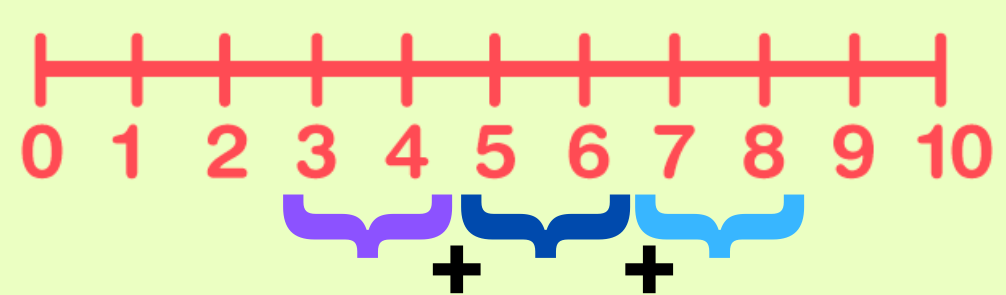
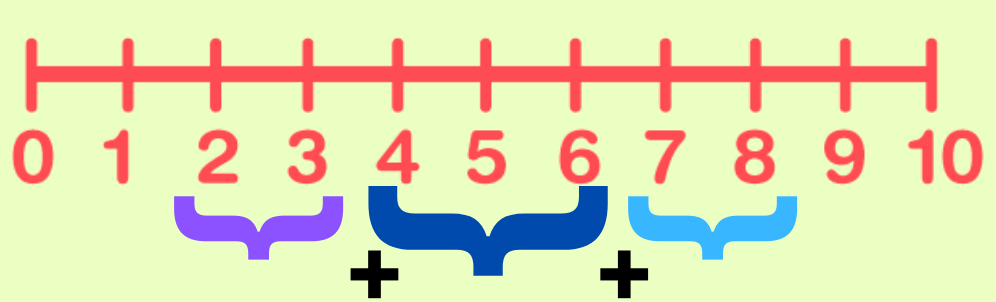
experiments/results added

diff --git a/_posts/2023-02-07-taking_notes_on_the_fly.md b/_posts/2023-02-07-taking_notes_on_the_fly.md
@@ -58,6 +58,10 @@ _styles: >
 ---
 
 ## Introduction
+{% include figure.html path="assets/img/2023-02-07-taking_notes_on_the_fly/example.png" class="img-fluid" %}
+<div class="caption">
+   Figure 1 from the paper, which describes an example situation in which taking notes could be useful. Here COVID is a rare word. Therefore, the model is struggling with the completion task on the left because it has not possibly seen many sentences with the word COVID in it. Thus, we take notes of the contextual information of it as we see examples on it in the training set and we quickly learn to associate it with which words! 
+</div>
 
 Transformers, which were invented by Google in 2017 <d-cite key="vaswani2017attention"></d-cite>, have become the go-to architecture for various tasks in many domains, such as natural language processing and computer vision <d-cite key="dosovitskiy2020image" ></d-cite> <d-cite key="devlin2018bert" ></d-cite> <d-cite key="radford2018improving" ></d-cite> <d-cite key="brown2020language" ></d-cite>.   The success of transformers are mainly because they have two amazing properties: 
 
@@ -128,7 +132,7 @@ $$Note(w,x)=\dfrac{1}{2k+t-s}\sum_{j=s-k}^{t+k}c_j$$.
 
 {% include figure.html path="assets/img/2023-02-07-taking_notes_on_the_fly/numberline.png" class="img-fluid" %}
 <div class="caption">
-    This figure demonstrates contextual embedding vectors at which locations will be selected and summed with an example. This line represents the indices of a sequence of length 11. Let us assume that the rare word is contained within tokens 5 and 6 and k=2, which makes the window size 2k=4. Thus, we sum the tokens at location 5, 6, as well as 3, 4, (which are the two immediate left tokens) and 7,8 (which are the two immediate right tokens). Finally, we divide the each element of the resulting vector by 6, which is the total number of elements in the interval.
+    This figure demonstrates contextual embedding vectors at which locations will be selected and summed with an example. This line represents the indices of a sequence of length 11. Let us assume that the rare word is contained within tokens 4 to 6, and k=2, which makes the window size 2k=4. Thus, we sum the tokens at location 4, 5, 6, as well as 3, 4, (which are the two immediate left tokens) and 7,8 (which are the two immediate right tokens). Finally, we divide the each element of the resulting vector by 6, which is the total number of elements in the interval.
 </div>
 
 4.To update the note embedding of w, NoteDict(w), take the exponential moving average of its previous value and Note(w,x) using the discount factor, namely, 
@@ -136,10 +140,13 @@ $$NoteDict(w)=(1-\gamma)NoteDict(w)+\gamma Note(w,x)$$. This way, we can choose 
 
 Now that we have our notes neatly stored in $$NoteDict$$, let us incorporate them into the training process! We again take the exponential moving average of the sum of the positional and token embeddings (the embedding used in the original transformer paper) with the corresponding $$NoteDict$$ value using another parameter called $$\lambda\in(0,1)$$. In particular, for every word $$w$$ that occurs in both $$NoteDict$$ and sequence $$x$$, each location corresponding to the word $$w$$ and its surrounding $$2k$$ tokens is set to the weighted of the sum of the positional and token embeddings with the corresponding NoteDict value. Any other location is set to the sum of the token embeddings and positional embeddings only.
 
-## Experiments
+## Results
+{% include figure.html path="assets/img/2023-02-07-taking_notes_on_the_fly/graphs.png" class="img-fluid" %}
+<div class="caption">
+    Figure 3. from the paper, presenting the loss and GLUE scores of the models with and without taking notes, over many iterations.
+</div>
+The experiments are conducted on BERT and ELECTRA models. The loss values of the pre-training runs with <em>note taking</em> descrease significantly faster than vanilla pre-training. Moreover, the models trained while taking notes achieve higher GLUE <d-cite key="wang2018glue"></d-cite> scores much faster. Additionally, they report that after one million iterations, the GLUE score of the models pre-trained with notes are superior to their counterparts trained without notes. Finally, they report that when it took one model with note taking to reach a certain GLUE score around 100.000 training iterations, it took the model around 400.000 training iterations to reach that same score without notes. That is a 60% improvement in training time to reach the same performance! 
 
-Just wrap the text you would like to show up in a footnote in a `<d-footnote>` tag.
-The number of the footnote will be automatically generated.
 
 ## Conclusion
 
